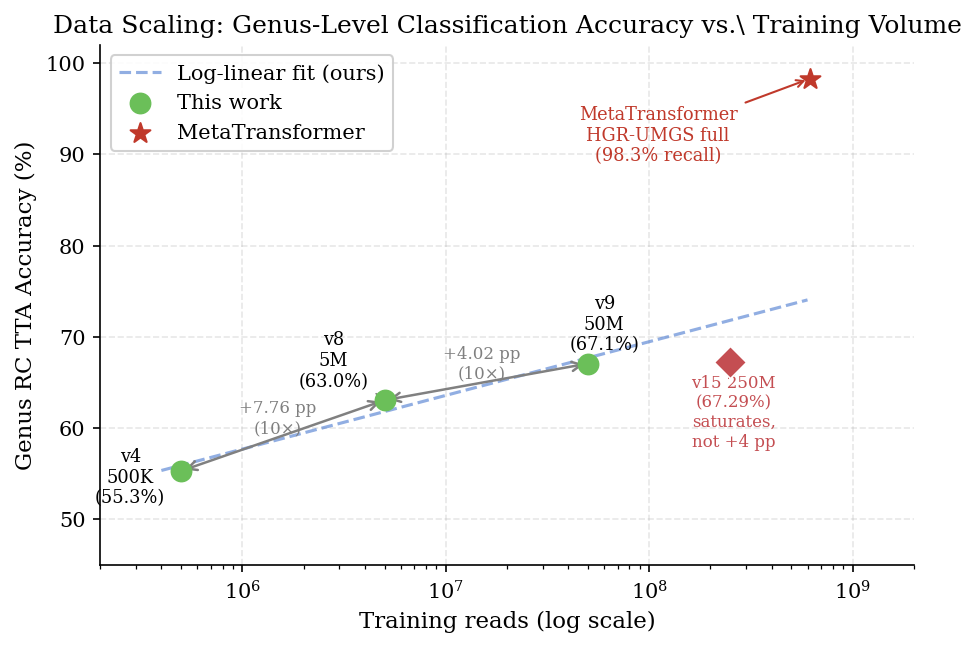
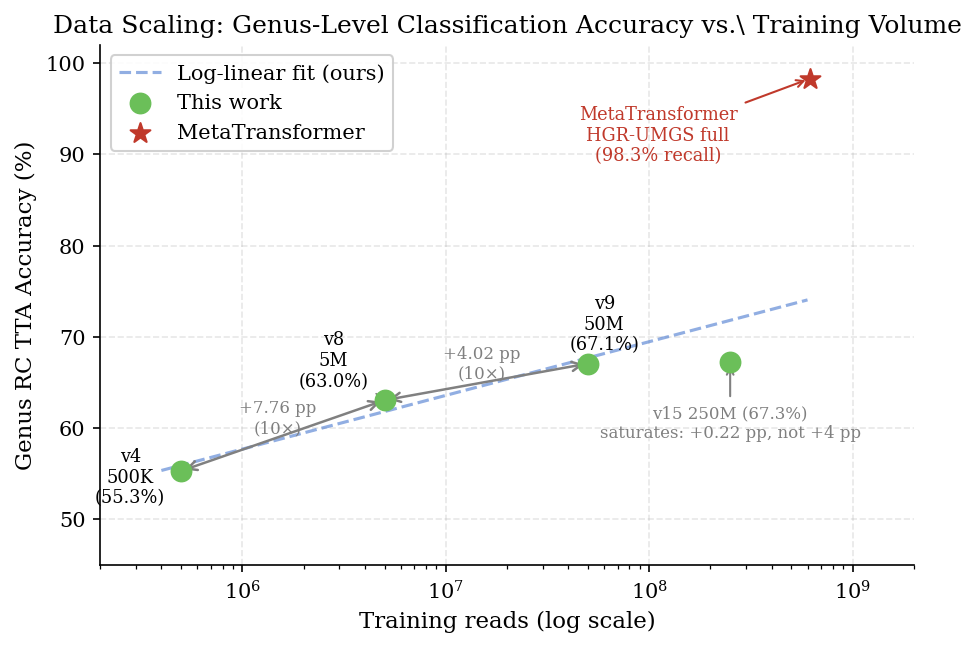
fig:data-scaling — 250M point as green "This work" series, not red diamond
The 250M run is the same warm-started NT-Genus series as v4/v8/v9 (not a
distinct architecture like MetaTransformer), so it should share the green
"This work" style. Rendering it as the fourth green circle makes the
saturation clearer: the trajectory visibly flattens off its own log-linear
projection (~71% projected vs 67.3% actual). Kept out of the 3-point fit.
Also fix a pre-existing caption error (data points are green, fit is blue).

Changed region(s): [[0.6148, 0.5247, 0.8914, 0.7099]]

diff --git a/contents/chapter04.tex b/contents/chapter04.tex
@@ -351,7 +351,7 @@ The comparison with MetaTransformer further reinforces this finding: despite usi
 \begin{figure}[htbp]
     \centering
     \includegraphics[width=0.80\textwidth]{figures/data_scaling.pdf}
-    \caption{Genus RC TTA accuracy versus training data volume (log scale). Blue circles mark our results at three data scales; the red star marks MetaTransformer's reported genus recall. The dashed line is a log-linear fit to our three data points. Per-$10\times$ accuracy gains diminish from $+7.76$~pp (500K$\to$5M) to $+4.02$~pp (5M$\to$50M). The red diamond marks the empirical 250M warm-started result (67.29\%), which falls well below the $\sim$71\% the log-linear fit would project at that scale---directly demonstrating that accuracy saturates beyond 50M rather than continuing along the trend. The MetaTransformer star marks reported genus recall (98.3\%); its x-position is based on training throughput (300K steps $\times$ batch~2,048) and is not directly comparable to our dataset-size axis.}
+    \caption{Genus RC TTA accuracy versus training data volume (log scale). Green circles mark our results at three data scales; the red star marks MetaTransformer's reported genus recall. The blue dashed line is a log-linear fit to our three data points. Per-$10\times$ accuracy gains diminish from $+7.76$~pp (500K$\to$5M) to $+4.02$~pp (5M$\to$50M). The fourth green circle (v15, 250M) continues the same warm-started series but is held out of the fit; at 67.29\% it falls well below the $\sim$71\% the log-linear fit would project at that scale---the trajectory flattens off its own projection, directly demonstrating that accuracy saturates beyond 50M rather than continuing along the trend. The MetaTransformer star marks reported genus recall (98.3\%); its x-position is based on training throughput (300K steps $\times$ batch~2,048) and is not directly comparable to our dataset-size axis.}
     \label{fig:data-scaling}
 \end{figure}
 

diff --git a/figures/generate_figures.py b/figures/generate_figures.py
@@ -192,15 +192,15 @@ def fig_data_scaling():
                 arrowprops=dict(arrowstyle="<->", color="gray", lw=1.2))
     ax.text(1.5e7, 65.5, "+4.02 pp\n(10×)", fontsize=8, ha="center", color="gray")
 
-    # Empirical 250M point (warm-started) — falls well below the log-linear
+    # Empirical 250M point — same warm-started NT-Genus series as v4/v8/v9
+    # (kept out of the 3-point fit). It falls well below the log-linear
     # projection (~71% at 250M), demonstrating saturation beyond 50M.
-    ax.scatter([250_000_000], [67.29], color="#C44E52", s=120, marker="D",
-               zorder=6, edgecolor="white", linewidth=0.8,
-               label="250M (empirical, warm-start)")
-    ax.annotate("v15 250M\n(67.29%)\nsaturates,\nnot +4 pp",
-                xy=(2.5e8, 67.29), xytext=(2.6e8, 58.0),
-                fontsize=8, ha="center", color="#C44E52",
-                arrowprops=dict(arrowstyle="->", color="#C44E52", lw=1))
+    ax.scatter([250_000_000], [67.29], color=COLORS["v9"], s=90,
+               zorder=5)
+    ax.annotate("v15 250M (67.3%)\nsaturates: +0.22 pp, not +4 pp",
+                xy=(2.5e8, 67.29), xytext=(2.5e8, 59.0),
+                fontsize=8, ha="center", color="gray",
+                arrowprops=dict(arrowstyle="->", color="gray", lw=1))
 
     plt.savefig(OUT / "data_scaling.pdf", bbox_inches="tight")
     plt.savefig(OUT / "data_scaling.png", bbox_inches="tight")
